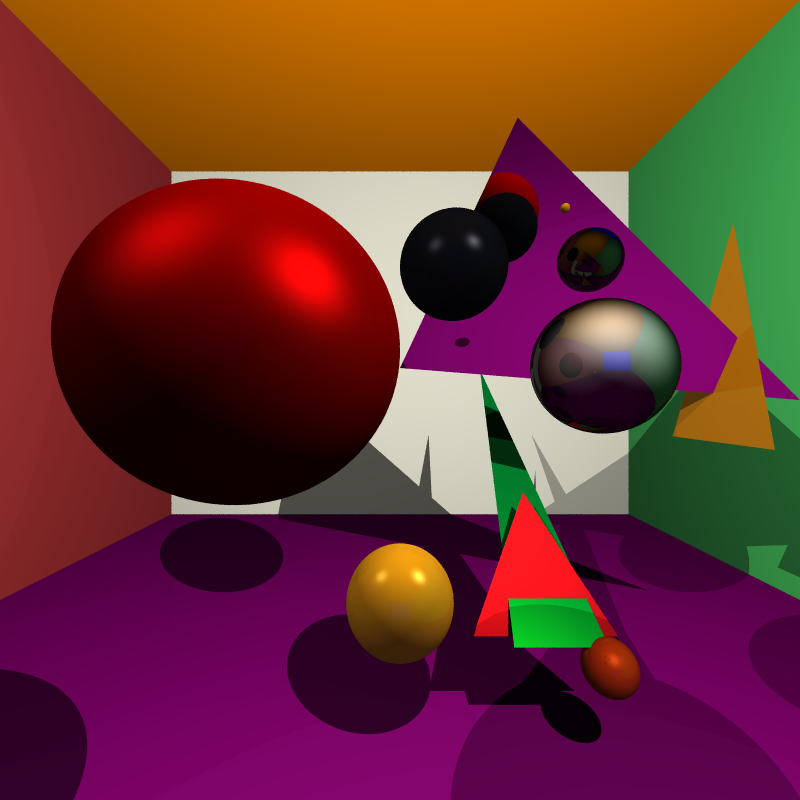
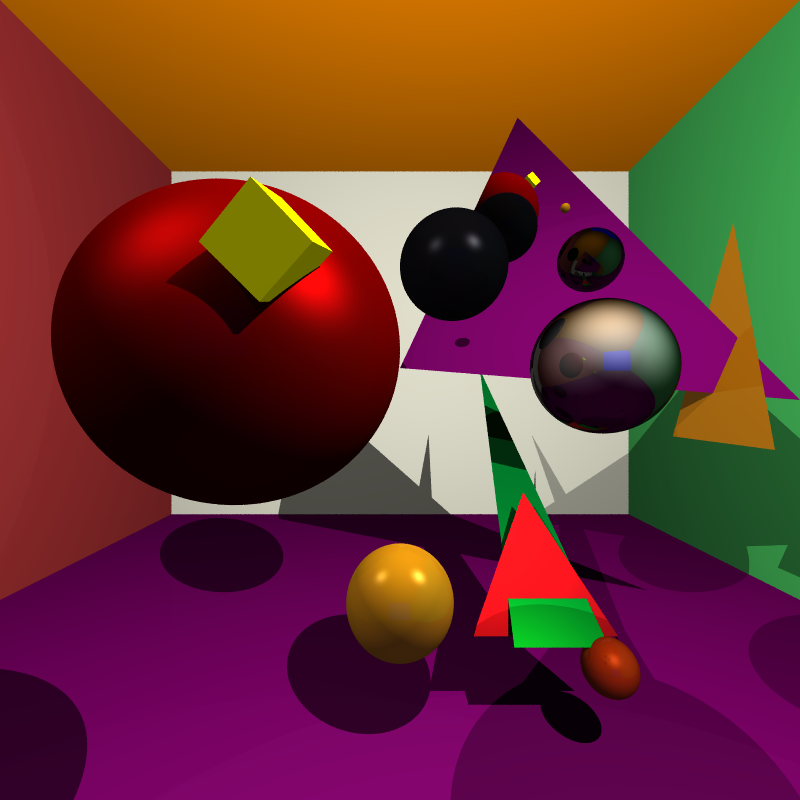
add Box RTShape, fix transformation multiplication order

Changed region(s): [[0.2188, 0.2188, 0.4062, 0.4375], [0.6562, 0.2188, 0.6875, 0.25]]

diff --git a/src/main/java/shapes/Box.java b/src/main/java/shapes/Box.java
@@ -1,0 +1,208 @@
+package shapes;
+
+import shading.Material;
+import utility.*;
+
+import java.util.ArrayList;
+import java.util.Map;
+
+/**
+ * Class for a box RTShape. It extends the
+ * triangleMesh because it is formed using 12 triangles.
+ *
+ * All Boxes are flat shaded by default (no interpolation
+ * of normals).
+ *
+ * All Box's are by inheritance also TriangleMesh's so the
+ * shapeID of Box must end with "mesh" so that the ShapeMapper
+ * can pass the modelling transform to it when invoking
+ * parseShape (Box's can therefore have a modelling transform).
+ *
+ * Box inherits all implementations of RTShape interface methods
+ * except for getShapeID (intersect, getUnitNormalAt, getColorAt,
+ * getMaterialAt).
+ */
+
+public class Box extends TriangleMesh implements RTShape {
+    public static final String shapeID = "box-mesh";
+
+    /**
+     * Constructors
+     */
+    /*
+       Constructor from minimum and maximum coordinates (creates a box whose sides are
+       parallel to the three axes), modelling transformation to place the box in the
+       scene, color and material.
+     */
+    public Box(double minX, double maxX, double minY, double maxY, double minZ, double maxZ, Matrix4D modelTransformation, RTColor color, Material material) {
+        super(Box.createVertices(minX, maxX, minY, maxY, minZ, maxZ), Box.createVertexNormals(),
+                new int[]{0,1,3, 0,3,2, 6,4,5, 6,5,7, 1,7,5, 1,5,3, 0,2,4, 0,4,6, 2,3,5, 2,5,4, 0,6,7, 0,7,1},
+                //new int[]{1,1,1, 1,1,1, 0,0,0, 0,0,0, 4,4,4, 4,4,4, 5,5,5, 5,5,5, 2,2,2, 2,2,2, 3,3,3, 3,3,3},
+                modelTransformation,
+                color, material);
+    }
+
+    /**
+     * Static Utility Methods
+     */
+    /*
+       Method that parses a Box from a Map<String,String>
+       mapping attribute names to their values.
+
+       Each Box is defined by a "minX",
+       "maxX", "minY", "maxY", "minZ", "maxZ" attributes for
+       limits of coordinates, and "model-transform" attribute.
+       "color", and "material" are leaf
+       attributes (only contain a String value).
+
+       The "model-transform" attribute is an XML sub-node that
+       contains a list of transformations in arbitrary order
+       (when creating XML description file, you should do scaling, then rotation,
+       then translation):
+
+            "scale" - scale by 3 given coefficients for 3 axis (as Vector3D)
+            "rotateX" - rotate about x-axis by given angle in degrees
+            "rotateY" - rotate about y-axis by given angle in degrees
+            "rotateZ" - rotate about z-axis by given angle in degrees
+            "translate" - translate by given Vector3D
+
+       In the SceneDescriptionParser, each of these transformations is
+       parsed into a Matrix4D, they are multiplied in correct order
+       (so that they are performed in the order in which they are written
+       in the XML), and the final Matrix4D is passed as the value of the
+       "model-transform" attribute. This final matrix is passed as an
+       argument to the parseShape method below. Only polygonal meshes
+       are allowed to include the 'Matrix4D modelTransformation' argument in
+       the signature of their parseShape method, because they are the
+       only RTShape's that are allowed to have a "model-transform" attribute.
+       If the "model-transform" attribute is missing from the XML description
+       of the triangle mesh, the modelling transformation is set to identity
+       when passed to the method below.
+
+       If the material attribute is missing from the XML
+       description of the RTShape, Material.defaultNonReflectiveMaterial
+       is set.
+
+     */
+    public static Box parseShape(Map<String, String> leafAttributes, Matrix4D modelTransformation) throws IncorrectSceneDescriptionXMLStructureException {
+        Integer minX = null, maxX = null, minY = null, maxY = null, minZ = null, maxZ = null;
+        /// model transformation has already been parsed by SceneDescriptionParser
+        RTColor color = null;
+        Material material = null;
+
+        for (Map.Entry<String, String> entry : leafAttributes.entrySet()) {
+            String attributeName = entry.getKey();
+            String attributeValue = entry.getValue();
+
+            switch (attributeName) {
+                case "minX" -> minX = Integer.parseInt(attributeValue);
+                case "maxX" -> maxX = Integer.parseInt(attributeValue);
+                case "minY" -> minY = Integer.parseInt(attributeValue);
+                case "maxY" -> maxY = Integer.parseInt(attributeValue);
+                case "minZ" -> minZ = Integer.parseInt(attributeValue);
+                case "maxZ" -> maxZ = Integer.parseInt(attributeValue);
+
+                /// model transformation has already been parsed by SceneDescriptionParser
+
+                case "color" -> color = SceneDescriptionParser.parseColor(attributeValue);
+                case "material" ->
+                {
+                    /// first try to parse the material from name, then try to parse from description
+                    try {
+                        material = Material.parseMaterialFromName(attributeValue);
+                    }
+                    catch (IncorrectSceneDescriptionXMLStructureException e) {
+                        material = Material.parseMaterial(attributeValue);
+                    }
+                }
+                default -> throw new IncorrectSceneDescriptionXMLStructureException("Undefined attribute in Box description.");
+            }
+        }
+
+        if(minX == null) {
+            throw new IncorrectSceneDescriptionXMLStructureException("Missing 'minX' attribute in Box description.");
+        }
+        if(maxX == null) {
+            throw new IncorrectSceneDescriptionXMLStructureException("Missing 'maxX' attribute in Box description.");
+        }
+        if(minY == null) {
+            throw new IncorrectSceneDescriptionXMLStructureException("Missing 'minY' attribute in Box description.");
+        }
+        if(maxY == null) {
+            throw new IncorrectSceneDescriptionXMLStructureException("Missing 'maxY' attribute in Box description.");
+        }
+        if(minZ == null) {
+            throw new IncorrectSceneDescriptionXMLStructureException("Missing 'minZ' attribute in Box description.");
+        }
+        if(maxZ == null) {
+            throw new IncorrectSceneDescriptionXMLStructureException("Missing 'maxZ' attribute in Box description.");
+        }
+        else if(color == null) {
+            throw new IncorrectSceneDescriptionXMLStructureException("Missing 'color' attribute in Box description.");
+        }
+
+        /// check if bounds are valid
+        if(minX  > maxX) {
+            throw new IncorrectSceneDescriptionXMLStructureException("Attribute 'minX' is larger than attribute 'maxX' in Box description.");
+        }
+        if(minY  > maxY) {
+            throw new IncorrectSceneDescriptionXMLStructureException("Attribute 'minY' is larger than attribute 'maxY' in Box description.");
+        }
+        if(minZ  > maxZ) {
+            throw new IncorrectSceneDescriptionXMLStructureException("Attribute 'minZ' is larger than attribute 'maxZ' in Box description.");
+        }
+
+        /// if missing material in XML, set default
+        if(material == null) {
+            material = Material.defaultNonReflectiveMaterial;
+        }
+
+        return new Box(minX, maxX, minY, maxY, minZ, maxZ, modelTransformation, color, material);
+    }
+    /*
+       Method that creates the list of vertices of the box mesh given the limits for coordinates.
+     */
+    private static ArrayList<Vector3D> createVertices(double minX, double maxX, double minY, double maxY, double minZ, double maxZ) {
+        ArrayList<Vector3D> vertices = new ArrayList<>();
+        vertices.add(new Vector3D(minX, minY, minZ));
+        vertices.add(new Vector3D(minX, minY, maxZ));
+
+        vertices.add(new Vector3D(minX, maxY, minZ));
+        vertices.add(new Vector3D(minX, maxY, maxZ));
+
+        vertices.add(new Vector3D(maxX, maxY, minZ));
+        vertices.add(new Vector3D(maxX, maxY, maxZ));
+
+        vertices.add(new Vector3D(maxX, minY, minZ));
+        vertices.add(new Vector3D(maxX, minY, maxZ));
+
+        return vertices;
+    }
+    /*
+       Method that creates the list of vertex normals of the vertices in the box mesh.
+     */
+    private static ArrayList<Vector3D> createVertexNormals() {
+        ArrayList<Vector3D> vertexNormals = new ArrayList<>();
+        vertexNormals.add(new Vector3D(1,0,0));
+        vertexNormals.add(new Vector3D(-1,0,0));
+
+        vertexNormals.add(new Vector3D(0,1,0));
+        vertexNormals.add(new Vector3D(0,-1,0));
+
+        vertexNormals.add(new Vector3D(0,0,1));
+        vertexNormals.add(new Vector3D(0,0,-1));
+
+        return vertexNormals;
+    }
+
+    /**
+     * Getters
+     */
+    /*
+       Override the getShapeID method to return the correct
+       shape identifier, for ShapeMapper to use.
+     */
+    public String getShapeID() {
+        return Box.shapeID;
+    }
+}

diff --git a/src/main/java/shapes/TriangleMesh.java b/src/main/java/shapes/TriangleMesh.java
@@ -52,7 +52,8 @@ public class TriangleMesh implements RTShape {
 
     /// the vertices of the mesh, in object coordinates
     private final ArrayList<Vector3D> vertices;
-    /// the normals to the mesh at each vertex, found by averaging adjacent face (triangle) normals
+    /// the normals to the mesh at each vertex, found by averaging adjacent face (triangle) normals, triangleFaces
+    /// arraylist references objects from this vertexNormals arraylist (for triangle vertex normals)
     private final ArrayList<Vector3D> vertexNormals;
     /// the triangles that the vertices form
     private final ArrayList<Triangle> triangleFaces;
@@ -74,6 +75,10 @@ public class TriangleMesh implements RTShape {
 
        An open source Wavefront OBJ parser (https://github.com/javagl/Obj/tree/master)
        is used to extract mesh info.
+
+       This constructor creates triangles which do not necessarily have to be flat
+       shaded - if vertex normals indices use different normals for different vertices
+       in the same triangle, normals will be linearly interpolated.
      */
     public TriangleMesh(String pathToObjFile, Matrix4D modelTransformation, RTColor color, Material material) throws IOException {
         InputStream objInputStream = new FileInputStream(pathToObjFile);
@@ -89,11 +94,12 @@ public class TriangleMesh implements RTShape {
         for(int i = 0; i < vertexCoordinates.length / 3; i++) {
             /// extract vertex in object coordinates from .obj file
             Vector3D v = new Vector3D(vertexCoordinates[3*i], vertexCoordinates[3*i+1], vertexCoordinates[3*i+2]);
-            /// apply modelling transformation to transform it to world coordinates (in scene), and add it to list
-            this.vertices.add(modelTransformation.multiply(v));
+            /// apply modelling transformation to transform the vertex to world coordinates (in scene), and add it to list
+            this.vertices.add(modelTransformation.multiplyFromRight(v));
         }
 
         /// extract list of vertex normals by grouping coordinates three by three
+        /// TODO - transform normals using (M^inverse)^transpose (for non-orthogonal matrices)
         this.vertexNormals = new ArrayList<>();
         for(int i = 0; i < vertexNormalsCoordinates.length / 3; i++) {
             this.vertexNormals.add(new Vector3D(vertexNormalsCoordinates[3*i], vertexNormalsCoordinates[3*i+1], vertexNormalsCoordinates[3*i+2]));
@@ -106,6 +112,38 @@ public class TriangleMesh implements RTShape {
                     new Triangle(
                             this.vertices.get(faceVertexIndices[3*i]), this.vertices.get(faceVertexIndices[3*i+1]), this.vertices.get(faceVertexIndices[3*i+2]),
                             this.vertexNormals.get(faceVertexNormalsIndices[3*i]), this.vertexNormals.get(faceVertexNormalsIndices[3*i+1]), this.vertexNormals.get(faceVertexNormalsIndices[3*i+2]),
+                            color, material)
+            );
+        }
+
+        this.diffuseColor = color;
+        this.material = material;
+    }
+    /*
+       Constructor from all attributes (and modelling transform to be performed to obtain triangle
+       mesh in world coordinates) except triangleFaces, which is here extracted from the given
+       indices of vertices and normals.
+
+       The constructor takes the vertex indices as an argument, but not vertex normals indices
+       because this constructor creates flat shaded triangles, i.e. vertex normals are all set
+       to be equal to the unit normal to the surface of the triangle.
+     */
+    public TriangleMesh(ArrayList<Vector3D> vertices, ArrayList<Vector3D> vertexNormals, int[] faceVertexIndices, Matrix4D modelTransformation, RTColor color, Material material) {
+        this.vertices = new ArrayList<>();
+        for(Vector3D vertex : vertices) {
+            /// apply modelling transformation to transform the vertex to world coordinates (in scene), and add it to list
+            this.vertices.add(modelTransformation.multiplyFromRight(vertex));
+        }
+
+        /// TODO - transform normals using (M^inverse)^transpose (for non-orthogonal matrices)
+        this.vertexNormals = vertexNormals;
+
+        /// extract list of triangles
+        this.triangleFaces = new ArrayList<>();
+        for(int i = 0; i < faceVertexIndices.length / 3; i++) {
+            this.triangleFaces.add(
+                    new Triangle(
+                            this.vertices.get(faceVertexIndices[3*i]), this.vertices.get(faceVertexIndices[3*i+1]), this.vertices.get(faceVertexIndices[3*i+2]),
                             color, material)
             );
         }

diff --git a/src/main/java/utility/SceneDescriptionParser.java b/src/main/java/utility/SceneDescriptionParser.java
@@ -273,6 +273,9 @@ public class SceneDescriptionParser {
        contains child XML nodes that represent modelling transformations (scale, rotateX, rotateY,
        rotateZ, translate). This method represents all the given transformations as matrices,
        and multiplies them in correct order to give the final modelling transformation.
+
+       The transformations are performed in the order they are listed in the "model-transform"
+       attribute XML node.
      */
     private static Matrix4D  parseTransformations(Node modelTransformationNode) throws IncorrectSceneDescriptionXMLStructureException {
         /// if "model-transform" node contains no transformations, return 4x4 identity matrix
@@ -281,7 +284,8 @@ public class SceneDescriptionParser {
         NodeList modelChildrenList = modelTransformationNode.getChildNodes();
         int modelChildrenListLength = modelChildrenList.getLength();
         Node current;
-        for(int i = 0; i < modelChildrenListLength; i++) {
+        /// start from the back and multiply matrices from the right side, so the first transform is performed first
+        for(int i = modelChildrenListLength-1; i >= 0; i--) {
             current = modelChildrenList.item(i);
             if(current.getNodeType() == Node.ELEMENT_NODE) {
                 /// parse the current transformation in the list
@@ -305,7 +309,7 @@ public class SceneDescriptionParser {
                     case "translate" -> matrixRepresentation = Matrix4D.getTranslationMatrix(SceneDescriptionParser.parseVector3D(nodeValue));
                 }
 
-                modelTransformation = modelTransformation.multiply(matrixRepresentation);
+                modelTransformation = modelTransformation.multiplyFromRight(matrixRepresentation);
             }
         }
 

diff --git a/src/main/java/utility/Matrix4D.java b/src/main/java/utility/Matrix4D.java
@@ -62,9 +62,9 @@ public class Matrix4D {
      * Methods
      */
     /*
-       Method to multiply this matrix by another 4x4 matrix m.
+       Method to multiply this matrix by another 4x4 matrix m from the right side.
      */
-    public Matrix4D multiply(Matrix4D m) {
+    public Matrix4D multiplyFromRight(Matrix4D m) {
         return new Matrix4D(
                 m00*m.m00 + m01*m.m10 + m02*m.m20 + m03*m.m30,
                 m00*m.m01 + m01*m.m11 + m02*m.m21 + m03*m.m31,
@@ -93,7 +93,7 @@ public class Matrix4D {
        at the end which is equal to 1. The result is a new 4x1 matrix,
        which is returned without its last element, i.e. a Vector3D.
      */
-    public Vector3D multiply(Vector3D v) {
+    public Vector3D multiplyFromRight(Vector3D v) {
         return new Vector3D(
                 m00*v.getX() + m01*v.getY() + m02*v.getZ() + m03,
                 m10*v.getX() + m11*v.getY() + m12*v.getZ() + m13,

diff --git a/src/main/java/utility/ShapeMapper.java b/src/main/java/utility/ShapeMapper.java
@@ -32,6 +32,9 @@ public class ShapeMapper {
         if(shapeID.equals("triangle-mesh")) {
             return TriangleMesh.parseShape(leafAttributes, modelTransformation);
         }
+        else if(shapeID.equals("box-mesh")) {
+            return Box.parseShape(leafAttributes, modelTransformation);
+        }
 
         /// other RTShape implementations are not allowed to have a "model-transform" attribute
         else if(shapeID.equals("triangle")) {
